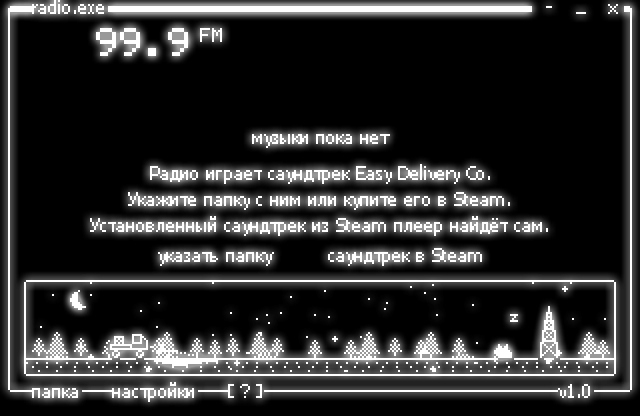
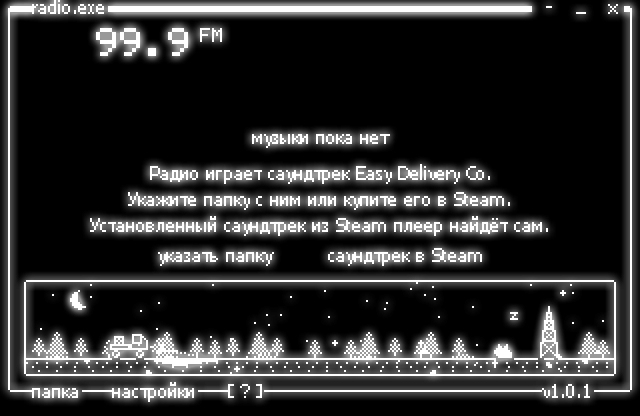
Add CI, issue forms and the 1.0.1 docs
GitHub Actions runs the tests and publishes the self-contained exe on
every push, and attaches it to the release for v* tags. The bug form
asks for the version, Windows, the music source and crash.log.

The READMEs explain what happens when something breaks and how to
report it, list the test command and the new folders, and update the
facts the fixes changed: the per-folder limit, the cover size cap and
the tray hint in click-through mode. The screenshots are retaken from
1.0.1 without game art or album covers.

diff --git a/README.en.md b/README.en.md
@@ -37,7 +37,8 @@ screen. Jumping to the next station crackles for 0.35 seconds.
 
 - **Tape** plays the whole album in order. Side A is disc 1 with 22 tracks,
   side B is disc 2 with 6. The `<<` and `>>` buttons move between tracks. The
-  track number is kept until the next launch.
+  track is kept until the next launch, even when files are added to the
+  folder.
 - **Scan** moves to the next station every 6 seconds until you touch the dial.
 - **Sleep** runs 15, 30 or 60 minutes. The sound fades over the last
   10 seconds, then the player pauses.
@@ -59,17 +60,18 @@ brings the normal window back. The Ctrl+Alt keys work while a game has focus.
   instead of 320 by 208.
 - **Clicks pass through** lets the mouse go through the strip into the game,
   and the title bar shows Ctrl+Alt+O instead of buttons. That key or the tray
-  menu gives the clicks back. If another program holds the key and the tray
-  icon is off, clicks do not pass through.
+  menu gives the clicks back. If another program holds the key, the title bar
+  says "tray menu". If the tray icon is off as well, clicks do not pass
+  through.
 
 While the cursor is not over the strip, the background and the glow dim to
 80 %, and the lines themselves stay bright.
 
 Background, mini and clicks live in the "settings" window, laid out like the
-game's settings: `[X]` toggles, `< 30 % >` steps through values. It also holds always on top
-without the overlay, mini mode for the normal window, glow, the tray icon,
-language and scale. Mini mode also comes on with the M key or the `-` in the
-title bar.
+game's settings: `[X]` toggles, `< 30 % >` steps through values. It also
+holds always on top without the overlay, mini mode for the normal window,
+glow, the tray icon, language and scale. Mini mode also comes on with the
+M key or the `-` in the title bar.
 
 ![Settings](docs/screenshot-settings.png)
 
@@ -87,13 +89,16 @@ nowhere else.
 3. **The game's `StreamingAssets\CustomRadio` folder**, for station 88.1 only.
 
 Without music the window offers to pick a folder or to open the soundtrack
-page on Steam. Formats are FLAC, WAV, M4A, MP3 and WMA, up to 2000 files. If a
-track exists in two formats, FLAC plays.
+page on Steam. Formats are FLAC, WAV, M4A, MP3 and WMA, up to 2000 files in
+each folder. The window opens at once and the tracks are read in the
+background. If a track exists in two formats, FLAC plays. If your folder has
+songs with the same names as soundtrack tracks, the stations play the ones
+from the folder that holds the most of them.
 
 Cover art is taken from the tracks' folder. First a picture whose name holds
 the station frequency, such as `cover (101.7 FM).jpg`, but not `demo`. Then
 `cover`, `folder` or `front`, then the first picture in alphabetical order.
-JPG, PNG and BMP work. The cover is drawn in dots, 38 by 38 pixels.
+JPG, PNG and BMP up to 8 MB work. The cover is drawn in dots, 38 by 38 pixels.
 
 ![No music yet](docs/screenshot-empty-en.png)
 
@@ -131,8 +136,11 @@ nothing else to install.
 Settings live in `%APPDATA%\EdcRadio\settings.json`. They hold the folder,
 frequency, volume, language, scale, glow, mini mode, always on top, the overlay
 with its background, mini mode and clicks, the tray icon, the tape with its
-track number and the window position. The player writes the static sound once to
-`%TEMP%\edc-radio-static-2.wav`, a 172 KB file.
+track and the window position. The player saves them right after a change in
+the settings and on exit. You can edit the file by hand, and `//` comments or
+trailing commas do not break it. The player writes the static sound to
+`%TEMP%\edc-radio-static-2.wav`, a 172 KB file, and writes it again if the
+file is damaged.
 
 ## Keys and mouse
 
@@ -163,6 +171,21 @@ the window. A click on the tray icon shows or hides the window. Its menu has
 show window, pause, next station, tape, overlay, clicks pass through, always
 on top and quit. Starting the exe again also brings a hidden window back.
 
+## If something breaks
+
+- **A damaged or deleted track.** The status line shows "could not open" with
+  the file name, and the station plays the next track. If none of the station's
+  tracks open, the player tries again after 10 seconds.
+- **The player crashes.** It shows a message and writes a report to
+  `%APPDATA%\EdcRadio\crash.log` with the date, the version, the Windows
+  version and the error text. The settings are saved first.
+- **settings.json is damaged.** The player starts with default settings and
+  keeps the old file next to it as `settings.json.bad`.
+
+You can report a bug in [Issues](../../issues/new/choose). The "Bug" form asks
+for the version, Windows, where the music comes from and what you did. If
+there is a `crash.log`, attach it.
+
 ## Building the exe
 
 ```powershell
@@ -174,12 +197,26 @@ The result is `publish\EdcRadio.exe`, 66 MB. A 270 KB file that needs the
 
 ```powershell
 dotnet publish src\EdcRadio\EdcRadio.csproj -c Release -r win-x64 -p:SelfContained=false -p:PublishSingleFile=true -o publish
-``` `tools\make_sprites.py`
-rebuilds the sprites, `Sprites.cs` and the icon. It needs Pillow.
+```
+
+`tools\make_sprites.py` rebuilds the sprites, `Sprites.cs` and the icon. It
+needs Pillow.
 
 ```powershell
 python tools\make_sprites.py
 ```
+
+One command runs the tests.
+
+```powershell
+dotnet test tests\EdcRadio.Tests
+```
+
+The 42 tests cover FLAC and tag reading, duplicate handling, how tracks are
+picked for stations, the broadcast clock, damaged settings, reading
+`data.unity3d` from random bytes, fonts and the glow bounds. GitHub Actions
+builds the exe and runs the tests on every push, and for a `v*` tag it attaches
+`EdcRadio.exe` to the release.
 
 ## Files
 
@@ -189,7 +226,7 @@ src/EdcRadio/
   MainForm.cs    window, mini mode, overlay, settings, keys, tray
   Radio.cs       broadcast, tape, sleep, static and crackle
   Stations.cs    stations and the broadcast clock
-  Library.cs     track search, FLAC and tags, Steam
+  Library.cs     tracks from folders, FLAC and tags, Steam
   Scene.cs       the scene at the bottom and the weather
   Canvas.cs      320×208 canvas, frames and text
   Glow.cs        scaling, glow and transparency
@@ -201,9 +238,12 @@ src/EdcRadio/
   Settings.cs    settings.json
   Sprites.cs     sprite places, written by tools/make_sprites.py
   Assets/        built-in sprites and icon
+tests/EdcRadio.Tests/  xUnit tests
 tools/
   make_sprites.py  sprites, Sprites.cs and app.ico from text
+site/            the project page, HTML and CSS with no build step
 docs/            screenshots and GitHub texts
+.github/         the GitHub Actions build and the issue forms
 ```
 
 ## Canvas, glow, broadcast

diff --git a/docs/release-notes.md b/docs/release-notes.md
@@ -1,3 +1,73 @@
+# v1.0.1
+
+Исправления после проверки на ошибки.
+
+- **Окно открывается сразу**, треки читаются в фоне. Раньше большая папка или
+  спящий диск подвешивали окно при запуске, при выборе папки и при каждом
+  переключении на плеер без музыки.
+- **Саундтрек из Steam не теряется**, если в выбранной папке больше 2000
+  файлов: предел теперь у каждой папки свой.
+- **Свои песни не занимают места треков саундтрека.** Если названия совпали,
+  станция берёт трек из папки, где треков саундтрека больше всего.
+- **Разные песни с одинаковым номером и названием** больше не склеиваются в
+  одну, а из CustomRadio играют все файлы.
+- **Файл, который не открылся**, станция пропускает и включает следующий трек,
+  имя файла видно в строке состояния. Раньше станция молчала.
+- **Сон срабатывает вовремя**, даже если компьютер уходил в спящий режим или
+  был загружен.
+- **Кассета помнит трек по файлу**, а не по номеру в списке, и не выключается,
+  если однажды при запуске музыка не нашлась.
+- **Клики сквозь оверлей** включаются при запуске без значка в трее и после
+  переключения значка. Если Ctrl+Alt+O занято, в заголовке написано
+  «меню в трее».
+- **Окно не меняет размер** при переходе на монитор с другим масштабом
+  Windows и уменьшает свой масштаб, если не помещается на экране.
+- **Повторный запуск exe** выводит окно на передний план.
+- **При падении** плеер сохраняет настройки и пишет отчёт в
+  `%APPDATA%\EdcRadio\crash.log`.
+- **settings.json** с комментариями и лишними запятыми читается, испорченный
+  файл остаётся рядом как `settings.json.bad`, запись идёт через временный
+  файл.
+- **Сценка не замирает**, если плеер работает несколько дней подряд.
+- **Длинные теги, огромные обложки и странные таблицы шрифтов** больше не
+  тормозят и не роняют плеер.
+
+---
+
+## English
+
+Fixes after a bug hunt.
+
+- **The window opens at once** and the tracks are read in the background.
+  A big folder or a sleeping drive used to freeze the window at startup, after
+  picking a folder and every time you switched to the player without music.
+- **The Steam soundtrack is no longer lost** when the chosen folder has more
+  than 2000 files: every folder now gets its own limit.
+- **Your own songs no longer take the place of soundtrack tracks.** When names
+  match, a station takes the track from the folder that holds the most
+  soundtrack tracks.
+- **Different songs with the same number and name** are no longer merged into
+  one, and every file in CustomRadio plays.
+- **A file that does not open** is skipped, the station plays the next track
+  and the status line shows the file name. The station used to go silent.
+- **Sleep fires on time**, even after the computer slept or was busy.
+- **Tape remembers its track by file**, not by its place in the list, and no
+  longer turns off after a launch where the music was not found.
+- **Clicks pass through the overlay** at startup without the tray icon and
+  after the tray icon is toggled. If Ctrl+Alt+O is taken, the title bar says
+  "tray menu".
+- **The window keeps its size** on a monitor with a different Windows scale
+  and lowers its own scale when it does not fit the screen.
+- **Starting the exe again** brings the window to the front.
+- **On a crash** the player saves its settings and writes a report to
+  `%APPDATA%\EdcRadio\crash.log`.
+- **settings.json** with comments and trailing commas is read, a damaged file
+  is kept next to it as `settings.json.bad`, and saving goes through a
+  temporary file.
+- **The scene keeps moving** when the player runs for days.
+- **Long tags, huge covers and odd font tables** no longer slow down or crash
+  the player.
+
 # v1.0.0
 
 Первая версия.

diff --git a/docs/github.md b/docs/github.md
@@ -46,6 +46,19 @@ desktop-app
 russian
 ```
 
+## Сайт
+
+Страница проекта лежит в `site/`: HTML, CSS, шрифты и картинки, сборка не
+нужна. Проект в Vercel настраивается так:
+
+- Root Directory — `site`;
+- Framework Preset — Other;
+- Build Command и Output Directory — пустые.
+
+`site/vercel.json` убирает `.html` из адресов и задаёт кэш для шрифтов и
+картинок. Когда сайт заработает, его адрес ставится в поле Website вместо
+ссылки на релизы.
+
 ## Настройки репозитория
 
 - Лицензия MIT, файл `LICENSE` уже в репозитории.
